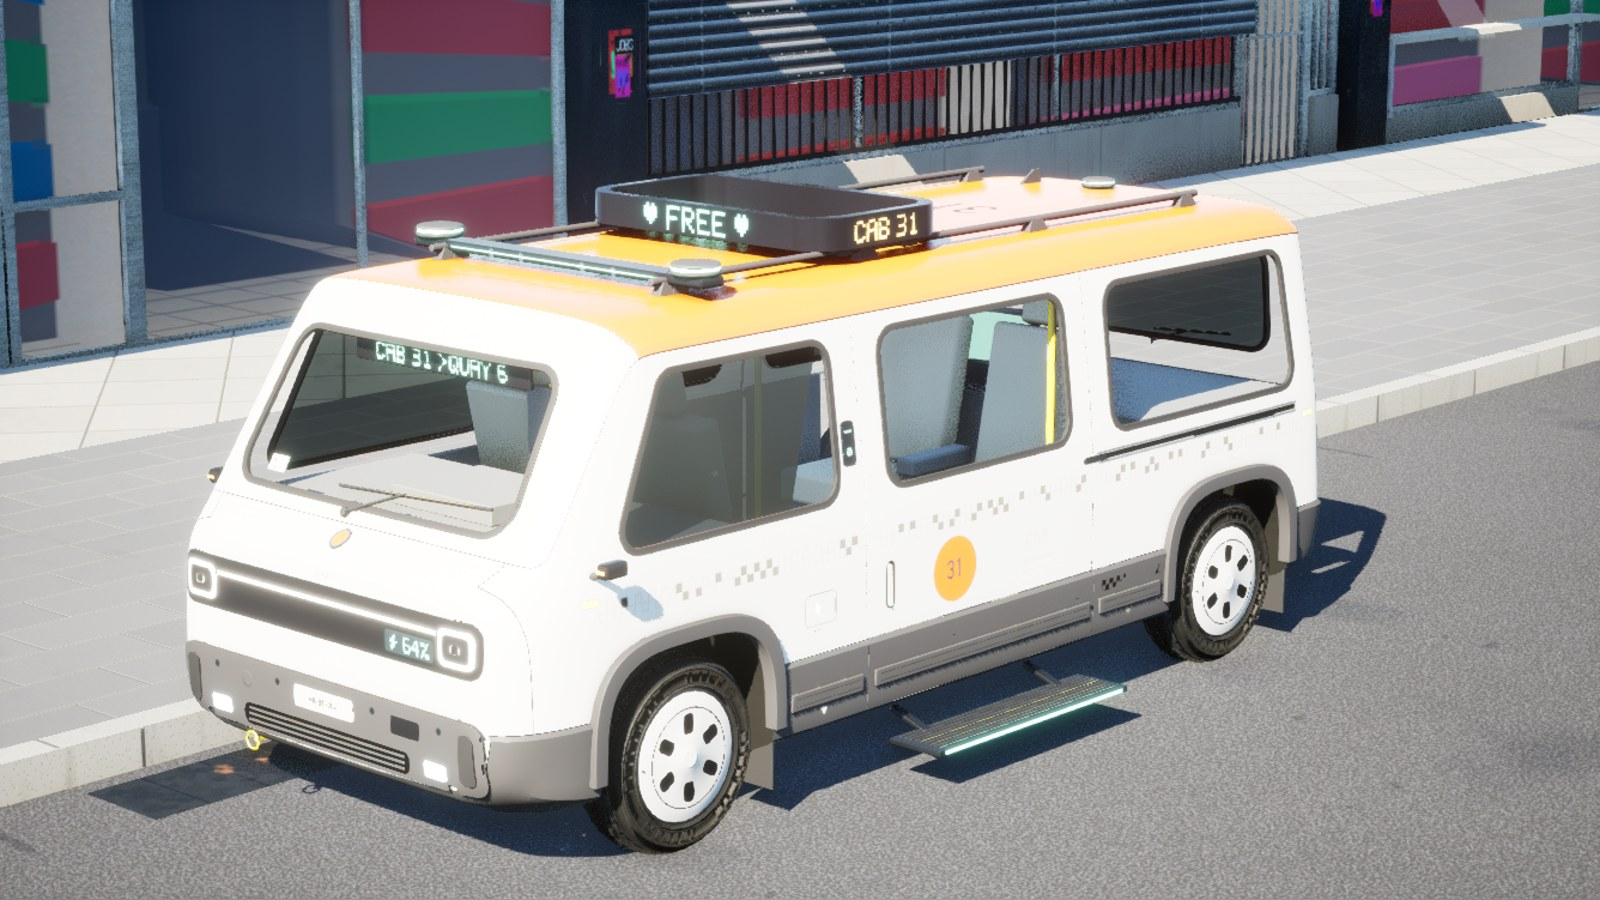
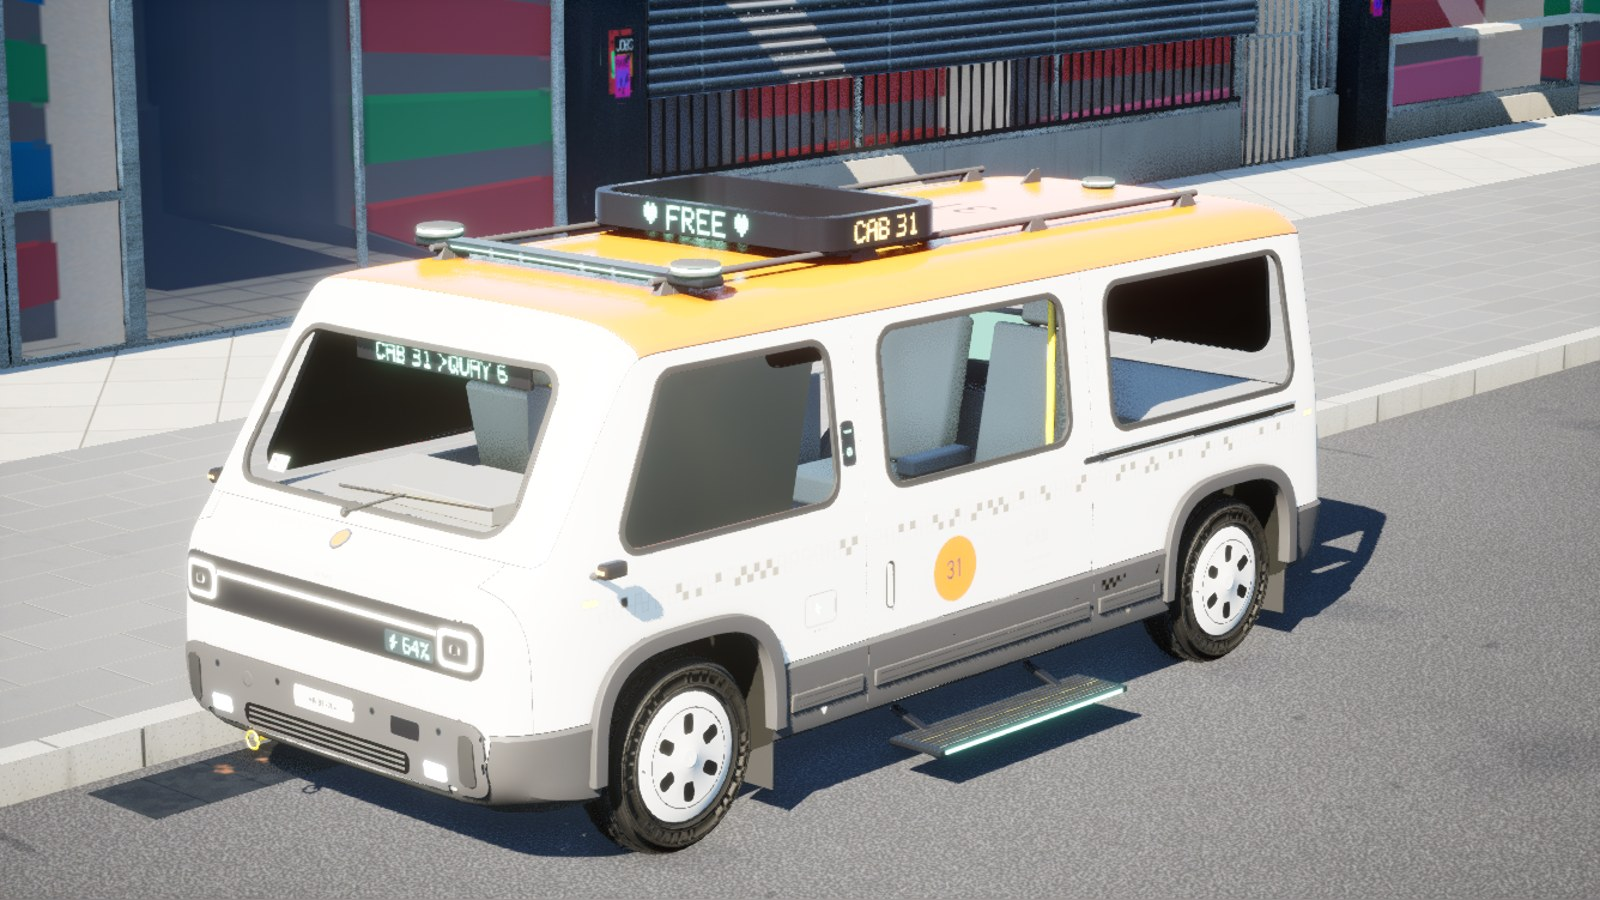
Car glass two-sided, the far side's faces left out by their outward normal (VEHICLE_VERSION 10); README: the Cab left open

diff --git a/citygen/ue/import_city.py b/citygen/ue/import_city.py
@@ -1617,7 +1617,7 @@ def stage2_master(master, defaults=None):
 
 # --- AG18's vehicles (citygen/unreal_vehicles.py; the packs' contract: vehicles/GAME.md) ------
 
-VEHICLE_VERSION = "9"        # of the vehicle masters (`cg.vehicle` metadata; 8 and 9: darker glass)
+VEHICLE_VERSION = "10"       # of the vehicle masters (`cg.vehicle` metadata; 8 to 10: the glass)
 VEHICLE_MESH_VERSION = "3"   # of what the importer makes of a car (with its manifest hash)
 VEHICLE_ACTOR_VERSION = "3"  # of the placement actors (2: the glass casts no shadow;
                              # 3, AT4: cull distances by part, the wheels cast no shadow)
@@ -1809,8 +1809,13 @@ def vehicle_glass_master(opaque):
                   transform_type=unreal.MaterialVectorCoordTransform.TRANSFORM_LOCAL)
         link(nw, "", nl, "Input")
         ctr = vparam(m, "GlassCenter", -900, 700, (0.0, 0.0, 100.0))
-        faces_in = custom(m, -600, 520, "return dot(N, P - C) < 0.0 ? 1.0 : 0.0;",
-                          ["N", "P", "C"], cmot(F1), "CgGlassInner")
+        # (the play fixes: a face is the far side's when, its normal turned outward from
+        # GlassCenter, the eye is behind it; the material two-sided, so a pack whose glass is
+        # one sheet facing in, as the Tanager Cab's, draws its near side too: it drew no glass
+        # at all from outside, its near faces culled and its far faces left out)
+        faces_in = custom(m, -600, 520, "float3 n = dot(N, P - C) < 0.0 ? -N : N; "
+                          "return dot(n, V) < 0.0 ? 1.0 : 0.0;",
+                          ["N", "P", "C", "V"], cmot(F1), "CgGlassInner")
         link(nl, "", faces_in, "N")
         link(lp, "", faces_in, "P")
         link(ctr, "", faces_in, "C")
@@ -1826,6 +1831,7 @@ def vehicle_glass_master(opaque):
                      .TRANSFORMSOURCE_WORLD,
                      transform_type=unreal.MaterialVectorCoordTransform.TRANSFORM_LOCAL)
         link(to_eye, "", eye_l, "Input")
+        link(eye_l, "", faces_in, "V")
         cab_c = vparam(m, "CabinCenter", -900, 960, (0.0, 0.0, 100.0))
         cab_h = vparam(m, "CabinHalf", -900, 1080, (0.0, 0.0, 0.0))
         # 1 for the faces left out: the inner sheet while the eye is outside the cabin
@@ -1868,6 +1874,7 @@ def vehicle_glass_master(opaque):
         MEL.connect_material_property(rough, "", MP.MP_ROUGHNESS)
         MEL.connect_material_property(op, "", MP.MP_OPACITY)
         m.set_editor_property("blend_mode", unreal.BlendMode.BLEND_TRANSLUCENT)
+        m.set_editor_property("two_sided", True)
         m.set_editor_property("shading_model", unreal.MaterialShadingModel.MSM_THIN_TRANSLUCENT)
         m.set_editor_property("translucency_lighting_mode",
                               unreal.TranslucencyLightingMode.TLM_SURFACE_PER_PIXEL_LIGHTING)

diff --git a/docs/unreal_export.md b/docs/unreal_export.md
@@ -1869,20 +1869,22 @@ hash changes, by `VEHICLE_MESH_VERSION` or the masters' `VEHICLE_VERSION`):
   glass: the domes' IOR of 1.12 to 1.14 reflected almost nothing), its roughness, and the
   glass color pulled toward a dark teal (`GlassTint`, `TintMix` 0.6) and squared as the
   transmittance (the packs' glass is thick: two sheets a few mm apart, and the proof's ray
-  is tinted at both). Since the play fixes (2026-11-12; `VEHICLE_VERSION` 9): the glass
-  had read as no glass at all, and the cabin is now a dim shape behind reflections, the
-  shading model's own Fresnel darkening and mirroring the glass toward grazing angles. A face whose normal points
-  toward `GlassCenter` (the middle of the car's box, set per car) is the inner sheet and is
-  left out: from outside it is the far side's glass seen through the near side, drawn in the
-  same mesh in triangle order, not by depth, and it composited over the near glass in black
-  and bright patches. From inside the cabin it is the other way round (the outer sheets face
-  away and are culled, so the glass was not there from the seats): the inner sheet is drawn
-  while the eye is inside the cabin's box (`CabinCenter`, `CabinHalf`, set per car: the
-  glass's own box from the pack's LOD0, the record's `glass_box`, taken down to the car's
-  floor; the eye in the mesh's own space is the pixel's local position plus the way to the
-  camera turned as the normal is). An eye outside that box but inside it in plan, hugging a
-  window that leans in, sees both sheets; a record without a glass box keeps the inner
-  sheet out, as before. **`M_CgVehicleGlassDark`** (`MI_<car>_glass_dark`): opaque, the glass
+  is tinted at both). The material is two-sided. A face is left out when, its normal turned
+  outward from `GlassCenter` (the middle of the car's box, set per car), the eye is behind
+  it: from outside that is the far side's glass seen through the near side, drawn in the
+  same mesh in triangle order, not by depth, which composited over the near glass in black
+  and bright patches. Before the play fixes the test was the normal pointing toward
+  `GlassCenter` on a one-sided material, so glass that is one sheet facing in (the
+  Tanager Cab's front side windows) drew no glass at all from outside: its near faces were culled and its far
+  faces left out. From inside the cabin every face is drawn, while the eye is inside the
+  cabin's box (`CabinCenter`, `CabinHalf`, set per car: the glass's own box from the pack's
+  LOD0, the record's `glass_box`, taken down to the car's floor; the eye in the mesh's own
+  space is the pixel's local position plus the way to the camera turned as the normal is); a
+  record without a glass box never counts the eye inside. Since the play fixes (2026-11-12;
+  `VEHICLE_VERSION` 10) the glass reads as glass: the cabin is a dim shape behind
+  reflections, the shading model's own Fresnel darkening and mirroring it toward grazing
+  angles.
+  **`M_CgVehicleGlassDark`** (`MI_<car>_glass_dark`): opaque, the glass
   color times 0.06, as the proof draws LOD2 and LOD3.
 
 **What the importer makes of a placement**: a `BP_CityGenGroup` actor at the entry's pivot
@@ -2000,4 +2002,4 @@ body, and the line-up of the AG18 check where the build has one. Results and sho
 | AG18 pack faults (cabin glass) | "AG18's vehicles" above: a car's record gains `glass_box` (the glass's box at LOD0 in the car's frame, from the glTF's accessor bounds; `unreal_vehicles.glass_box`); `M_CgVehicleGlass` draws the inner sheet while the eye is inside that box taken down to the car's floor (`CabinCenter`, `CabinHalf` on each car's instance; the eye in the mesh's space from the pixel's local position and the way to the camera), `VEHICLE_VERSION` 7; `--check-vehicles` shoots each car from inside its cabin (`cabin_<car>`); `tests/test_unreal_vehicles.py` checks the box | The vehicle line-up in its throwaway project (`docs/progress/AG18/unreal/`): imported over the earlier import (the masters and the seven cars' instances made anew, 12 placements updated), the vehicle check passing, the glass there from the seats in the cabin shots, the heroes from outside as before |
 | AT1 | Layer 3 ("From AT1" above): the manifest's `atmos` (`unreal_atmos.write_atmos`: the controller's key and hash, a cell per 128 m cell, `counts.atmos_cells` and `atmos_lights`; the records in `unreal/atmos.json`; a plan whose lux check failed is named and left out, `--atmos DIR` naming a folder without a plan is an error); `actor_hashes`, `actor_kinds` (`atmos`, `atmos_cell`); the importer's `atmos_cells` (a `CityGenAtmosCell` data actor per cell, spatially loaded, among the offloaded actors) and `atmos_controller` (`CityGenAtmos`, always loaded, the plan's settings), `ATMOS_VERSION`; atmosgen's assets made before the import (`make_assets`); the plugin: cells register their lights as they stream, the controller's pooled live set shows them by night (`MPC_CityGen`'s `Night`), its subsystem and `-CityGenAtmosPlan` gone; the play features without AG15's spot lamps and sign washes (`play.json` 3; `GetStatus` without `lamps_lit`), their pools past the live range; the check reads the controller's status by night; `--atmos`, `--no-atmos`, `--bench-atmos` a flag | Delta in CityAG16 (`docs/progress/AT1/`): imported over AG16's import (the controller and 500 cells created, nothing else touched, under 3 min), the check passing by night with views, the night benchmark before and after (three runs each) |
 | Packaged game (a fix on its own, 2026-11-10) | "A packaged game" above: `unreal.ALWAYS_COOK` written to the project's DefaultGame.ini by every import (`set_project_ini`, `set_engine_ini(..., file, entries)`), so the atmos assets loaded by path are cooked; the play module puts a game with no saved resolution at the monitor's native resolution, windowed fullscreen; the Tab menu's Fog, Rain, Wet streets and hour rows drive the atmos controller. | Delta imported again into the AT1 project, packaged (Development Win64) and played: no missing CityGen package, a 2560 x 1440 window, the weather rows by night. |
-| Play fixes (2026-11-12, after the packaged Delta) | Play's default is walking (`--play walk`; `fly` and `project` the others): the play plugin's `ACityGenWalker` (`CityGenWalker.h`, a character with a camera in front of the face and a body its player sees, keys bound on its own input component, `-CityGenSelfie=SECONDS` for a packaged game's proof), made into `Core/BP_CityGenWalker` wearing the project's own character's body (`import_city.project_body`) and spawned by `Core/GM_CityGenWalk` (`walk_classes`), the level's game mode override; `--check` walks with it (its spawn and body, a curb climbed: checks `spawn` and `curb`); `M_CgVehicleGlass` darker, coated and covered toward grazing angles (`VEHICLE_VERSION` 9, every car made again); the Aurels never imported (`unreal_vehicles.EXCLUDED`, a placement naming one refused) | Delta Megacity imported into CityAG16 and checked, a packaged game (`docs/progress/fix_play_cars/`) |
+| Play fixes (2026-11-12, after the packaged Delta) | Play's default is walking (`--play walk`; `fly` and `project` the others): the play plugin's `ACityGenWalker` (`CityGenWalker.h`, a character with a camera in front of the face and a body its player sees, keys bound on its own input component, `-CityGenSelfie=SECONDS` for a packaged game's proof), made into `Core/BP_CityGenWalker` wearing the project's own character's body (`import_city.project_body`) and spawned by `Core/GM_CityGenWalk` (`walk_classes`), the level's game mode override; `--check` walks with it (its spawn and body, a curb climbed: checks `spawn` and `curb`); `M_CgVehicleGlass` darker, coated and covered toward grazing angles (`VEHICLE_VERSION` 10, every car made again; two-sided, the far side's faces left out); the Aurels never imported (`unreal_vehicles.EXCLUDED`, a placement naming one refused) | Delta Megacity imported into CityAG16 and checked, a packaged game (`docs/progress/fix_play_cars/`) |

diff --git a/docs/progress/fix_play_cars/README.md b/docs/progress/fix_play_cars/README.md
@@ -100,7 +100,7 @@ with 112.
 
 ## 5. Car glass that reads as glass
 
-`M_CgVehicleGlass` (the importer's, so the packs need no rebuild; `VEHICLE_VERSION` 9):
+`M_CgVehicleGlass` (the importer's, so the packs need no rebuild; `VEHICLE_VERSION` 10):
 - the glass color is pulled toward a dark teal (`GlassTint`, `TintMix` 0.6) before it is
   squared as the transmittance;
 - a share of the glass is covered (the pack's transmission times `TransmissionScale` 0.65),
@@ -109,11 +109,24 @@ with 112.
 - the reflectance is at least `MinF0` 6%. The domes' IOR of 1.12 to 1.14 had reflected almost
   nothing.
 
-The cabin is now a dim shape behind reflections.
+- the material is two-sided. A face is left out when, its normal turned outward from the
+  car's middle, the eye is behind it (the far side's glass); it used to be left out when its
+  normal pointed in. The Tanager Cab's front side windows are one sheet facing in, so from outside they drew
+  no glass at all: its near faces were culled and its far faces left out.
+
+The cabin is now a dim shape behind reflections. The street shots below are of version 8 (the
+first round); version 10 is darker again and two-sided (the hero shots under "Checks").
 
 | By day | By night |
 |---|---|
 | ![](glass_lumen_day.jpg) | ![](glass_lumen_night.jpg) |
+
+**Left open: the Tanager Cab.** After version 10 its front side window reads as tinted glass,
+but its windshield and the other side windows still look clear from outside, much as before.
+From inside, its side windows are dark glass and the windshield still has none. Its pack's
+proof shows light, clear glass in those windows (glass color 0.6 to 0.68). Whether those
+openings carry glass faces in the pack's LOD0, and which way they face, is for a look at
+`game.py`'s glass for that car.
 
 ## Delta in Unreal
 
@@ -145,7 +158,8 @@ or delete it after the run).
 ## The night's frame time
 
 The lean benchmark ran once (`--bench-atmos`, `night_plan_all`; `bench/`) with the walker as
-the pawn and the darker glass (`VEHICLE_VERSION` 8). The p95 was 15.5 ms over the route: walk
+the pawn and the first round of darker glass (`VEHICLE_VERSION` 8; version 10's coverage
+and two-sided faces were not benchmarked). The p95 was 15.5 ms over the route: walk
 15.6, drive 15.3, flight 15.7. AT4 left it at 15.6, and the budget is 16.7. Delta's model is
 the branch's here (no station canopies, and main's later model changes). The bench moves the
 pawn itself, so the walker's body is below the view.
@@ -169,3 +183,5 @@ pawn itself, so the walker's body is below the view.
 | ![](glass_hero_tanager_cab_day_before.jpg) | ![](glass_hero_tanager_cab_day_after.jpg) |
 | **An Orrin Pebble's dome, before** | **After** |
 | ![](glass_hero_orrin_pebble_day_before.jpg) | ![](glass_hero_orrin_pebble_day_after.jpg) |
+
+The Tanager Cab from its seats (version 10): ![](glass_cabin_tanager_cab.jpg)
